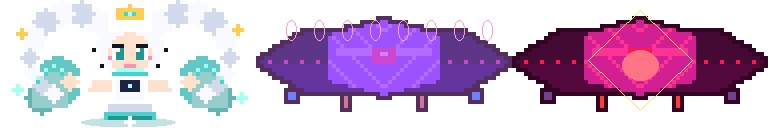
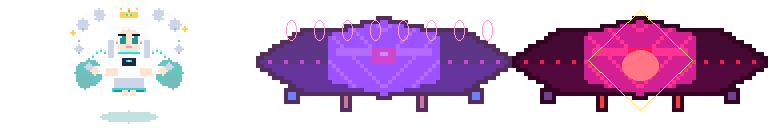
v2.3.4: Paimon completa — sheet animado y pelea por fases
Sprite 4 frames (idle/bob/cast/mad), flotación, estrellas teal,
telegráfo de cast y modo emergencia; código de pelea modular.

Changed region(s): [[0.0, 0.2188, 0.3438, 0.9062], [0.0, 0.0, 0.3438, 0.3125], [0.0938, 0.8125, 0.25, 1.0]]

diff --git a/js/bosses.js b/js/bosses.js
@@ -5,6 +5,13 @@
 (function (global) {
   const sheet = new Image();
   sheet.src = "assets/bosses-sheet.png";
+  const paimonSheet = new Image();
+  paimonSheet.src = "assets/paimon-sheet.png";
+  const PAIMON = {
+    FRAME: 128, // cada cuadro del sheet
+    // 0 idle · 1 bob · 2 cast · 3 mad
+    IDLE: 0, BOB: 1, CAST: 2, MAD: 3,
+  };
 
   /** Jefes principales por nivel */
   const ROSTER = {
@@ -186,6 +193,18 @@
     boss.phase = 1;
     boss.patternT = 0;
     boss.spiral = 0;
+    boss.animT = 0;
+    boss.castUntil = 0;
+    boss.moveDir = RNG() < 0.5 ? -1 : 1;
+    if (def.id === "paimon") {
+      // Hitbox cuadrada chibi (el sheet es 128×128)
+      boss.width = 128;
+      boss.height = 128;
+      boss.x = GW / 2 - 64;
+      boss.y = typeof bossTopY === "function" ? bossTopY() : 48;
+      boss.paimon = true;
+      boss.baseY = boss.y;
+    }
     const nameEl = document.getElementById("bossName");
     if (nameEl) nameEl.textContent = def.name;
     const fill = document.getElementById("bossHealthFill");
@@ -198,6 +217,94 @@
     if (typeof showMiniToast === "function") showMiniToast(def.toast, 2400);
     if (global.VFX) VFX.floatText(GW / 2, 100, def.name, def.color, 20);
     return true;
+  }
+
+  /** Estrella teal de Paimon (comida de emergencia / magia) */
+  function firePaimonStar(x, y, ang, sp) {
+    const mul = global.Diff ? Diff.bulletMul() : 1;
+    const s = sp * mul;
+    enemyBullets.push({
+      x: x - 4, y: y - 4,
+      vx: Math.cos(ang) * s,
+      speed: Math.sin(ang) * s,
+      width: 8, height: 8,
+      witch: true,
+      src: "jefe:paimon",
+      paimonStar: true,
+    });
+  }
+
+  function paimonAnimFrame() {
+    if (!boss) return PAIMON.IDLE;
+    const now = gameNow();
+    if (boss.phase >= 3) return PAIMON.MAD;
+    if (now < (boss.castUntil || 0)) return PAIMON.CAST;
+    return (Math.floor((boss.animT || 0) / 280) % 2 === 0) ? PAIMON.IDLE : PAIMON.BOB;
+  }
+
+  function updatePaimon(dt) {
+    if (!boss || !boss.paimon || boss.appearing || boss.dying) return;
+    boss.animT = (boss.animT || 0) + dt;
+    // Flota + paseo lateral suave
+    const bob = Math.sin(boss.animT / 280) * 8;
+    boss.y = (boss.baseY || 48) + bob;
+    const speed = 1.1 + (boss.phase || 1) * 0.35;
+    boss.x += (boss.moveDir || 1) * speed * (typeof FK !== "undefined" ? FK : 1);
+    if (boss.x < 8) { boss.x = 8; boss.moveDir = 1; }
+    if (boss.x + boss.width > GW - 8) { boss.x = GW - boss.width - 8; boss.moveDir = -1; }
+  }
+
+  function attackPaimon(phase, now, bx, by) {
+    // Telegráfo: pose de cast ~280 ms antes de soltar
+    const wind = 280;
+    if (now - (boss._starAt || 0) > (phase === 3 ? 850 : phase === 2 ? 1200 : 1600)) {
+      boss.castUntil = now + wind;
+      boss._starAt = now;
+      boss._pendingStar = true;
+    }
+    if (boss._pendingStar && now >= (boss.castUntil || 0)) {
+      boss._pendingStar = false;
+      const n = 3 + phase;
+      for (let i = 0; i < n; i++) {
+        const a = Math.PI / 2 + (i - (n - 1) / 2) * 0.32;
+        firePaimonStar(bx, by, a, 3.1 + phase * 0.2);
+      }
+      bang(0.4);
+      if (global.VFX) VFX.floatText(bx, by - 20, "¡estrellitas!", "#4EDAD2", 14);
+    }
+
+    if (phase >= 2 && now - (boss._foodAt || 0) > (phase === 3 ? 1400 : 2000)) {
+      boss.castUntil = now + wind;
+      boss._foodAt = now;
+      // Anillo de “bocadillos”
+      const n = phase === 3 ? 12 : 8;
+      for (let i = 0; i < n; i++) {
+        firePaimonStar(bx, by, (Math.PI * 2 * i) / n + Math.PI / 2, 2.6);
+      }
+      fireAimed(bx, by, 3.9, "jefe:paimon");
+      bang(0.45);
+      if (typeof showMiniToast === "function" && phase === 2) {
+        showMiniToast("¡comida de emergencia!", 1200);
+      }
+    }
+
+    if (phase >= 3 && now - (boss._rageAt || 0) > 2400) {
+      boss.castUntil = now + 400;
+      boss._rageAt = now;
+      // Lluvia: tres columnas + abanico
+      [-60, 0, 60].forEach((ox) => {
+        firePaimonStar(bx + ox, by, Math.PI / 2, 4.0);
+        firePaimonStar(bx + ox, by, Math.PI / 2 + 0.15, 3.6);
+      });
+      fireFan(bx, by, 7, 0.2, 3.5);
+      // Cambio de dirección brusco (dash)
+      boss.moveDir = player.x + player.width / 2 < bx ? -1 : 1;
+      bang(0.55);
+      if (global.VFX) {
+        VFX.shake(5);
+        VFX.floatText(bx, by - 28, "¡MODO EMERGENCIA!", "#FF4D7A", 16);
+      }
+    }
   }
 
   function hitMini(dmg) {
@@ -379,28 +486,14 @@
     boss.spiral = (boss.spiral || 0) + 0.12;
 
     const bx = boss.x + boss.width / 2;
-    const by = boss.y + boss.height;
+    const by = boss.y + boss.height * 0.85;
     const now = gameNow();
+    const dt = 16;
 
-    // Paimon: estrellas teal + “bocadillos” guiados (comida de emergencia)
     if (id === "paimon") {
-      if (now - (boss._starAt || 0) > (phase === 3 ? 900 : phase === 2 ? 1300 : 1800)) {
-        // abanico de estrellitas
-        fireFan(bx, by, 3 + phase, 0.28, 3.0 + phase * 0.15);
-        boss._starAt = now;
-      }
-      if (phase >= 2 && now - (boss._foodAt || 0) > (phase === 3 ? 1100 : 1600)) {
-        // orbes “comida” (balas witch = pétalo/estrella visual)
-        fireRing(bx, by, phase === 3 ? 10 : 7, 2.5, true);
-        fireAimed(bx, by, 3.8, "jefe:paimon");
-        boss._foodAt = now;
-      }
-      if (phase >= 3 && now - (boss._rageAt || 0) > 2200) {
-        fireAimed(bx - 50, by, 4.2, "jefe:paimon");
-        fireAimed(bx + 50, by, 4.2, "jefe:paimon");
-        fireFan(bx, by, 5, 0.22, 3.6);
-        boss._rageAt = now;
-      }
+      updatePaimon(dt);
+      attackPaimon(phase, now, bx, by);
+      return;
     }
 
     // Walpurgia: pétalos densos
@@ -445,9 +538,6 @@
 
   function drawBossSprite(ctx) {
     if (!boss || typeof boss.rosterFrame !== "number") return false;
-    // sustituye draw si hay frame de sheet (frame 0 = Paimon)
-    if (!sheet.complete || sheet.naturalWidth < 256) return false;
-    const fr = boss.rosterFrame;
     ctx.save();
     let scale = 1, opacity = 1;
     if (boss.appearing) {
@@ -473,12 +563,40 @@
         return true;
       }
     }
+
+    // —— Paimon: sheet propio animado ——
+    if (boss.paimon && paimonSheet.complete && paimonSheet.naturalWidth >= PAIMON.FRAME) {
+      if (!boss.dying && !boss.appearing) {
+        // movimiento lo hace updatePaimon; aquí solo dibuja
+      }
+      const fr = paimonAnimFrame();
+      const F = PAIMON.FRAME;
+      ctx.globalAlpha = opacity;
+      ctx.imageSmoothingEnabled = false;
+      ctx.translate(boss.x + boss.width / 2, boss.y + boss.height / 2);
+      ctx.scale(scale, scale);
+      // aura suave en fase 3
+      if (boss.phase >= 3) {
+        ctx.beginPath();
+        ctx.fillStyle = "rgba(255,77,122,0.18)";
+        ctx.ellipse(0, 8, 70, 58, 0, 0, Math.PI * 2);
+        ctx.fill();
+      }
+      ctx.drawImage(paimonSheet, fr * F, 0, F, F, -F / 2, -F / 2, F, F);
+      ctx.restore();
+      return true;
+    }
+
+    // —— Otros jefes: bosses-sheet ——
+    if (!sheet.complete || sheet.naturalWidth < 256) { ctx.restore(); return false; }
     if (!boss.dying && !boss.appearing) {
       boss.x += Math.sin(gameNow() / 600) * 2 * (typeof FK !== "undefined" ? FK : 1);
       if (boss.x < 0) boss.x = 0;
       if (boss.x + boss.width > GW) boss.x = GW - boss.width;
     }
+    const fr = boss.rosterFrame;
     ctx.globalAlpha = opacity;
+    ctx.imageSmoothingEnabled = false;
     ctx.translate(boss.x + boss.width / 2, boss.y + boss.height / 2);
     ctx.scale(scale, scale);
     ctx.drawImage(sheet, fr * 256, 0, 256, 128, -boss.width / 2, -boss.height / 2, boss.width, boss.height);

diff --git a/js/fx.js b/js/fx.js
@@ -401,8 +401,22 @@
 
     drawEnemyBullet(ctx, bullet) {
       ctx.save();
-      const w = Math.max(4, bullet.width), h = Math.max(bullet.witch ? 6 : 10, bullet.height);
       const ex = Math.round(bullet.x), ey = Math.round(bullet.y);
+      // Estrellitas de Paimon (cruz teal pixel)
+      if (bullet.paimonStar) {
+        const cx = ex + 4, cy = ey + 4;
+        ctx.fillStyle = "#0B0F1E";
+        ctx.fillRect(cx - 4, cy - 1, 8, 3);
+        ctx.fillRect(cx - 1, cy - 4, 3, 8);
+        ctx.fillStyle = "#4EDAD2";
+        ctx.fillRect(cx - 3, cy, 7, 1);
+        ctx.fillRect(cx, cy - 3, 1, 7);
+        ctx.fillStyle = "#E8FFFC";
+        ctx.fillRect(cx, cy, 1, 1);
+        ctx.restore();
+        return;
+      }
+      const w = Math.max(4, bullet.width), h = Math.max(bullet.witch ? 6 : 10, bullet.height);
       ctx.fillStyle = "#0B0F1E"; ctx.fillRect(ex - 1, ey - 1, w + 2, h + 2);
       ctx.fillStyle = bullet.witch ? "#9B6BFF" : "#FF4D7A"; ctx.fillRect(ex, ey, w, h);
       ctx.fillStyle = "#FF8AD8"; ctx.fillRect(ex + 1, ey + 1, Math.max(1, w - 2), 2);

diff --git a/sw.js b/sw.js
@@ -1,5 +1,5 @@
 /* Space War — service worker (offline). Sube VERSION en cada entrega. */
-const VERSION = "v2.3.3";
+const VERSION = "v2.3.4";
 const CACHE = "space-war-" + VERSION;
 const ASSETS = [
   "./",
@@ -39,6 +39,7 @@ const ASSETS = [
   "./assets/Boss.png",
   "./assets/bosses-sheet.png",
   "./assets/music/boss-battle.ogg",
+  "./assets/paimon-sheet.png",
   "./assets/arlee.png",
   "./assets/brand/corte-tijera.png",
   "./assets/brand/estrella-sheet.png",
